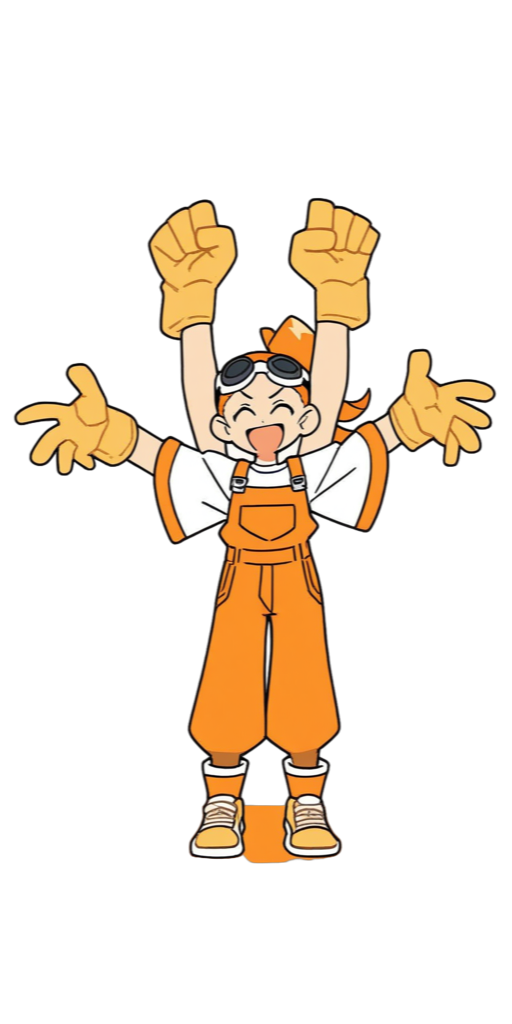
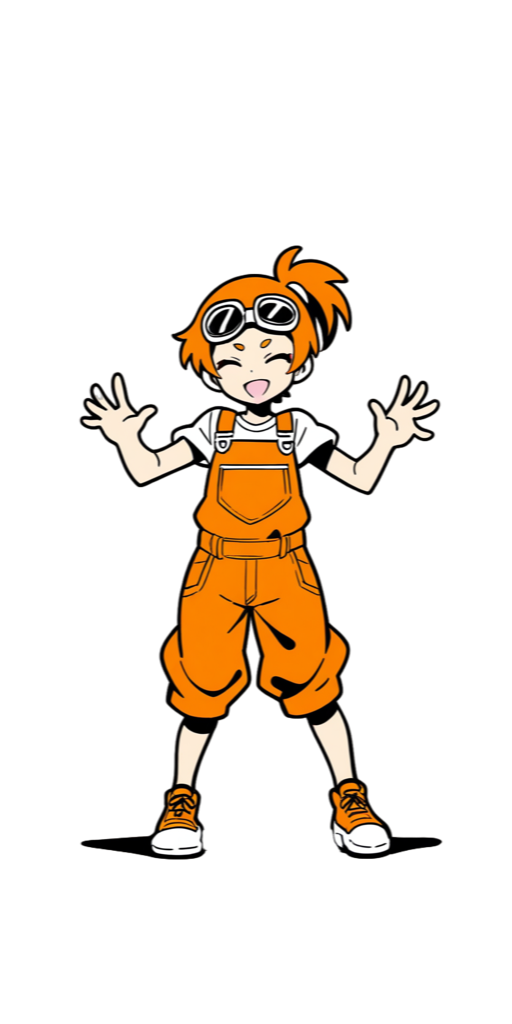
Give AMBER two arms and cut a 0.5.0
31415 drew her victory pose with four of them. Same failure as VIO's
second head, same pose, and the same fix: a seed override rather than a
hand-edited file, so the script still produces the cast it claims to.
Arms over the head is what invites it — the negative prompt asks against
duplicated limbs and the sampler does it anyway.

0.5.0 is the release with a cast in it: six characters behind the boards,
counting lines out loud, cutting in on the big moves and standing there
after. The release notes never mentioned any of that, so they do now,
including the bit that matters legally — the voices are VOICEVOX and come
with attribution terms of their own.

Changed region(s): [[0.0312, 0.1875, 0.9688, 0.8438]]

diff --git a/assets/characters/amber/SOURCE.md b/assets/characters/amber/SOURCE.md
@@ -3,7 +3,7 @@
 Generated for bevytris by `scripts/make_character_art.sh`.
 
 - Method: hand-supplied hero images
-- Source directory: `/var/folders/rp/3pkr8jjx5276_vpcxyf1c3cw0000gn/T/tmp.vt5ZmQ7dmp` (not part of this repository)
+- Source directory: `/var/folders/rp/3pkr8jjx5276_vpcxyf1c3cw0000gn/T/tmp.X0yGHOArwW` (not part of this repository)
 - Background removal: BiRefNet_toonout, via ComfyUI
 - Derived: standing_left is a mirror of standing_right; anything absent above
   was derived from standing.png by `scripts/make_character_art.sh`.
